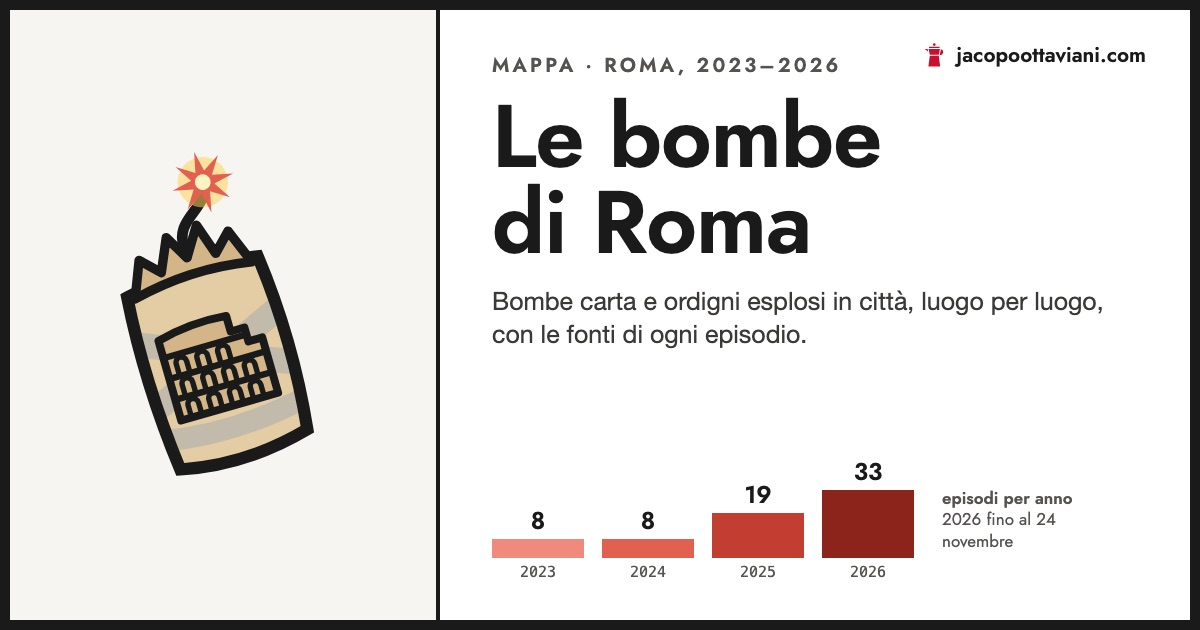
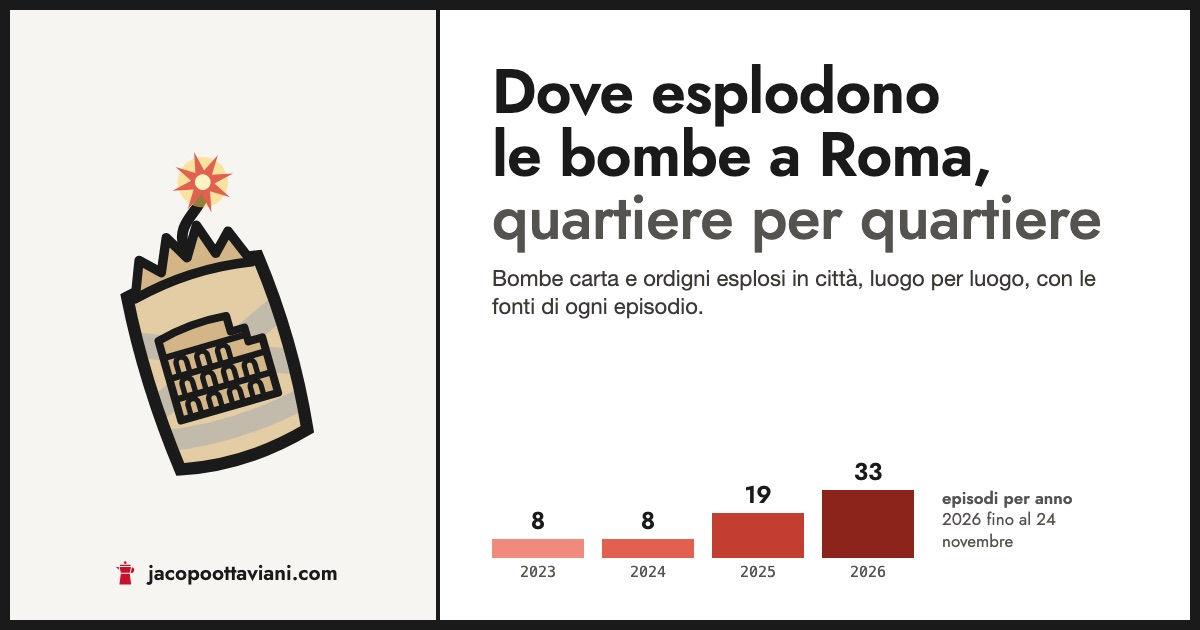
Bombe a Roma: the title becomes "Dove esplodono le bombe a Roma, quartiere per quartiere", with the second half lighter, in the heading, the tab title, the share text and a re-rendered share image (version bumped so Slack and WhatsApp fetch it again); the "Mappa · Roma, gennaio 2023 – novembre 2026"

Changed region(s): [[0.4008, 0.0603, 0.9558, 0.5429], [0.0925, 0.8746, 0.2775, 0.9349]]

diff --git a/bombe-a-roma/index.html b/bombe-a-roma/index.html
@@ -12,23 +12,23 @@
 </script>
 <meta charset="UTF-8">
 <meta name="viewport" content="width=device-width, initial-scale=1.0">
-<title>Le bombe di Roma</title>
+<title>Dove esplodono le bombe a Roma, quartiere per quartiere</title>
 <meta name="description" content="Mappa delle bombe carta e degli ordigni esplosi a Roma dal 2023 a oggi, geolocalizzati dagli articoli di cronaca, con le fonti di ogni episodio.">
 <meta name="author" content="Jacopo Ottaviani">
 <link rel="canonical" href="https://jacopoottaviani.com/bombe-a-roma/">
 <meta property="og:type" content="website">
-<meta property="og:title" content="Le bombe di Roma, 2023–2026">
+<meta property="og:title" content="Dove esplodono le bombe a Roma, quartiere per quartiere">
 <meta property="og:description" content="Bombe carta e ordigni esplosi in città, luogo per luogo, con le fonti di ogni episodio.">
 <meta property="og:url" content="https://jacopoottaviani.com/bombe-a-roma/">
 <meta property="og:site_name" content="Jacopo Ottaviani">
 <meta property="og:locale" content="it_IT">
-<meta property="og:image" content="https://jacopoottaviani.com/bombe-a-roma/og-image.jpg?v=2026-11-24">
+<meta property="og:image" content="https://jacopoottaviani.com/bombe-a-roma/og-image.jpg?v=2026-11-24b">
 <meta property="og:image:width" content="1200">
 <meta property="og:image:height" content="630">
 <meta property="og:image:type" content="image/jpeg">
-<meta property="og:image:alt" content="Una bomba carta disegnata con il Colosseo sopra, il titolo «Le bombe di Roma» e un grafico degli episodi per anno: 8 nel 2023, 8 nel 2024, 19 nel 2025, 33 nel 2026.">
+<meta property="og:image:alt" content="Una bomba carta disegnata con il Colosseo sopra, il titolo «Dove esplodono le bombe a Roma, quartiere per quartiere» e un grafico degli episodi per anno: 8 nel 2023, 8 nel 2024, 19 nel 2025, 33 nel 2026.">
 <meta name="twitter:card" content="summary_large_image">
-<meta name="twitter:image" content="https://jacopoottaviani.com/bombe-a-roma/og-image.jpg?v=2026-11-24">
+<meta name="twitter:image" content="https://jacopoottaviani.com/bombe-a-roma/og-image.jpg?v=2026-11-24b">
 <link rel="icon" type="image/svg+xml" href="icon.svg">
 <link rel="icon" type="image/png" sizes="32x32" href="icon-32.png">
 <link rel="apple-touch-icon" href="apple-touch-icon.png">
@@ -99,8 +99,8 @@ html { scroll-behavior: smooth; }
 
 /* ── header ── */
 .top { padding: 22px 24px 18px; border-bottom: 2px solid var(--ink); display: grid; grid-template-columns: 1fr auto; gap: 8px 32px; align-items: end; }
-.kicker { font: 600 12px/1 var(--head); letter-spacing: .14em; text-transform: uppercase; color: var(--ink-2); grid-column: 1 / -1; }
 h1 { font: 600 clamp(30px, 4.4vw, 52px)/1.02 var(--head); letter-spacing: -.01em; }
+.h1-sub { font-weight: 500; color: var(--ink-2); }
 .dek { max-width: 62ch; color: var(--ink-2); margin-top: 8px; font-size: 16px; }
 .totals { display: flex; gap: 22px; text-align: right; }
 .totals div { min-width: 64px; }
@@ -204,11 +204,13 @@ h1 { font: 600 clamp(30px, 4.4vw, 52px)/1.02 var(--head); letter-spacing: -.01em
 .list-head { padding: 10px 18px; display: flex; justify-content: space-between; align-items: baseline; border-bottom: 1px solid var(--rule); font-size: 13px; color: var(--ink-2); }
 .list { list-style: none; overflow-y: auto; flex: 1; min-height: 0; }
 .item { border-bottom: 1px solid var(--rule); }
-.item button { all: unset; box-sizing: border-box; display: grid; grid-template-columns: 12px 1fr; gap: 3px 10px; width: 100%; padding: 11px 18px; cursor: pointer; }
+.item button { all: unset; box-sizing: border-box; display: grid; grid-template-columns: 12px minmax(0, 1fr) auto; gap: 3px 10px; width: 100%; padding: 11px 18px; cursor: pointer; }
 .item button:hover, .item button:focus-visible, .item.on button { background: var(--paper-2); }
 .item button:focus-visible { outline: 2px solid var(--focus); outline-offset: -2px; }
 .item .sw { width: 10px; height: 10px; border-radius: 50%; background: var(--c); margin-top: 5px; }
 .item .d { font: 12px/1.4 var(--mono); color: var(--ink-2); }
+.item .q { grid-column: 3; grid-row: 1 / span 3; align-self: center; justify-self: end; max-width: 150px; text-align: right; font: 600 18px/1.1 var(--head); color: var(--ink); padding-left: 8px; }
+.item .q small { display: block; font: 500 12px/1.2 var(--head); color: var(--ink-2); margin-top: 3px; }
 .item .t { grid-column: 2; font-weight: 600; font-size: 14px; line-height: 1.3; }
 .item .s { grid-column: 2; font-size: 13px; color: var(--ink-2); line-height: 1.35; }
 
@@ -323,7 +325,6 @@ h1 { font: 600 clamp(30px, 4.4vw, 52px)/1.02 var(--head); letter-spacing: -.01em
 </nav>
 
 <header class="top">
-  <p class="kicker">Mappa · Roma, gennaio 2023 – novembre 2026</p>
   <div class="head-main">
     <svg class="logo" viewBox="0 0 100 100" role="img" aria-label="Icona del progetto: una bomba carta di carta da pacchi fasciata col nastro, con un piccolo Colosseo disegnato sopra e la miccia accesa">
     <defs><clipPath id="bc-clip"><path d="M29 39 Q 27 63 30 89 Q 48 93 67 88 Q 70 63 67 38 Q 48 35 29 39 Z" transform="rotate(-16 48 62)"/></clipPath></defs>
@@ -354,8 +355,8 @@ h1 { font: 600 clamp(30px, 4.4vw, 52px)/1.02 var(--head); letter-spacing: -.01em
     </g>
     </svg>
     <div>
-    <h1>Le bombe di Roma</h1>
-    <p class="dek">Bombe carta e ordigni artigianali esplosi in città negli ultimi quattro anni, ricostruiti e messi sulla mappa a partire dagli articoli di cronaca. Ogni punto rimanda alle sue fonti.</p>
+    <h1>Dove esplodono le bombe a Roma, <span class="h1-sub">quartiere per quartiere</span></h1>
+    <p class="dek">Bombe carta e ordigni esplosi da gennaio 2023, ricostruiti dagli articoli di cronaca. Ogni punto rimanda alle sue fonti.</p>
     </div>
   </div>
   <div class="totals" aria-live="polite">
@@ -807,11 +808,14 @@ h1 { font: 600 clamp(30px, 4.4vw, 52px)/1.02 var(--head); letter-spacing: -.01em
 
   /* ── list ── */
   const listEl = document.getElementById("list");
+  // "Tor Bella Monaca (Torre Gaia)": the main name large, the detail in brackets on a smaller line
+  const quartiereHTML = q => { const m = q.match(/^(.*?)\s*\((.+)\)$/); return m ? `${esc(m[1])}<small>${esc(m[2])}</small>` : esc(q); };
   function renderList(shown) {
     document.getElementById("list-n").textContent = plural(shown.length);
     listEl.innerHTML = shown.slice().sort((a, b) => (b.data + (b.ora || "")).localeCompare(a.data + (a.ora || ""))).map(d =>
       `<li class="item" data-id="${d.id}"><button type="button" aria-label="${esc(fmtDate(d.data, true) + ", " + d.quartiere + ": " + d.bersaglio + ". Apri sulla mappa")}">
-        <span class="sw" style="--c:${col(d.anno)}"></span><span class="d">${fmtDate(d.data)} · ${esc(d.quartiere)}</span>
+        <span class="sw" style="--c:${col(d.anno)}"></span><span class="d">${fmtDate(d.data)}</span>
+        <span class="q">${quartiereHTML(d.quartiere)}</span>
         <span class="t">${esc(d.bersaglio)}</span><span class="s">${esc(d.indirizzo)} · ${esc(d.ordigni > 1 ? d.ordigni + " ordigni" : d.ordigno)}</span>
       </button></li>`).join("");
   }

diff --git a/bombe-a-roma/pipeline/og-source.html b/bombe-a-roma/pipeline/og-source.html
@@ -12,24 +12,23 @@ html, body { width: 1200px; height: 630px; overflow: hidden; background: #FFFFFF
 .art { background: #F6F5F2; border-right: 4px solid #1A1A1A; display: grid; place-items: center; }
 .art img { width: 360px; height: 360px; }
 .txt { padding: 46px 54px 40px 52px; display: flex; flex-direction: column; }
-.kick { font: 600 20px/1 "Jost", sans-serif; letter-spacing: .16em; text-transform: uppercase; color: #55534F; }
-h1 { font: 600 88px/0.98 "Jost", sans-serif; letter-spacing: -.01em; margin-top: 18px; }
-.dek { font-size: 25px; line-height: 1.32; color: #3A3936; margin-top: 18px; max-width: 640px; }
+h1 { font: 600 62px/1.02 "Jost", sans-serif; letter-spacing: -.01em; margin-top: 4px; }
+h1 span { font-weight: 500; color: #55534F; }
+.dek { font-size: 22px; line-height: 1.3; color: #3A3936; margin-top: 14px; max-width: 640px; }
 .chart { margin-top: auto; display: flex; align-items: flex-end; gap: 18px; height: 120px; }
 .chart .col { display: flex; flex-direction: column; align-items: center; justify-content: flex-end; height: 100%; width: 92px; }
 .chart .bar { width: 100%; background: var(--c); }
 .chart .n { font: 600 24px/1 "Jost", sans-serif; margin-bottom: 6px; }
 .chart .y { font: 15px/1 "SF Mono", Menlo, monospace; color: #55534F; margin-top: 7px; }
 .chart .lab { align-self: center; font: 600 17px/1.25 "Jost", sans-serif; color: #55534F; margin-left: 10px; max-width: 150px; }
-.url { position: absolute; right: 54px; top: 42px; display: flex; align-items: center; gap: 10px; font: 600 21px/1 "Jost", sans-serif; }
+.url { position: absolute; left: 10px; width: 430px; justify-content: center; bottom: 44px; display: flex; align-items: center; gap: 10px; font: 600 21px/1 "Jost", sans-serif; }
 .url svg { width: 26px; height: 26px; }
 </style></head>
 <body>
 <div class="frame">
   <div class="art"><img src="../icon.svg" alt=""></div>
   <div class="txt">
-    <p class="kick">Mappa · Roma, 2023–2026</p>
-    <h1>Le bombe<br>di Roma</h1>
+    <h1>Dove esplodono<br>le bombe a Roma,<br><span>quartiere per quartiere</span></h1>
     <p class="dek">Bombe carta e ordigni esplosi in città, luogo per luogo, con le fonti di ogni episodio.</p>
     <div class="chart" id="chart"></div>
   </div>

diff --git a/bombe-a-roma/pipeline/README.md b/bombe-a-roma/pipeline/README.md
@@ -1,4 +1,4 @@
-# Pipeline: Le bombe di Roma
+# Pipeline: Dove esplodono le bombe a Roma, quartiere per quartiere
 
 Scripts and inputs that produce `../data/episodi.json` and `../data/episodi.csv`. Article texts are not stored here: `articoli_indice.json` keeps only the link, headline and date of the 296 RomaToday articles read.
 
